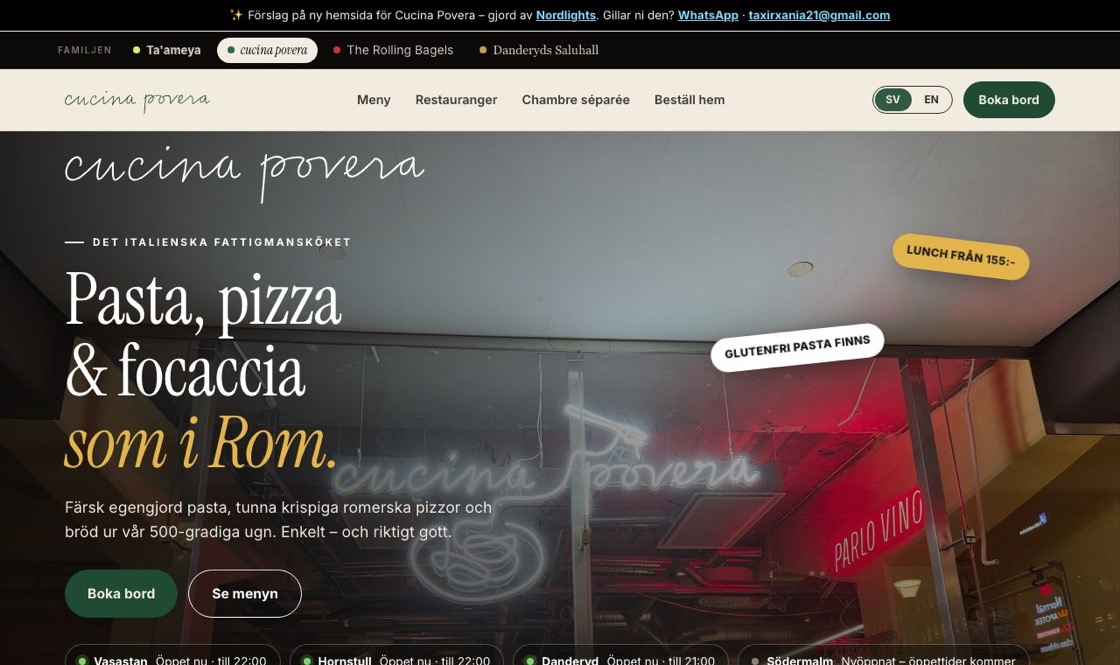
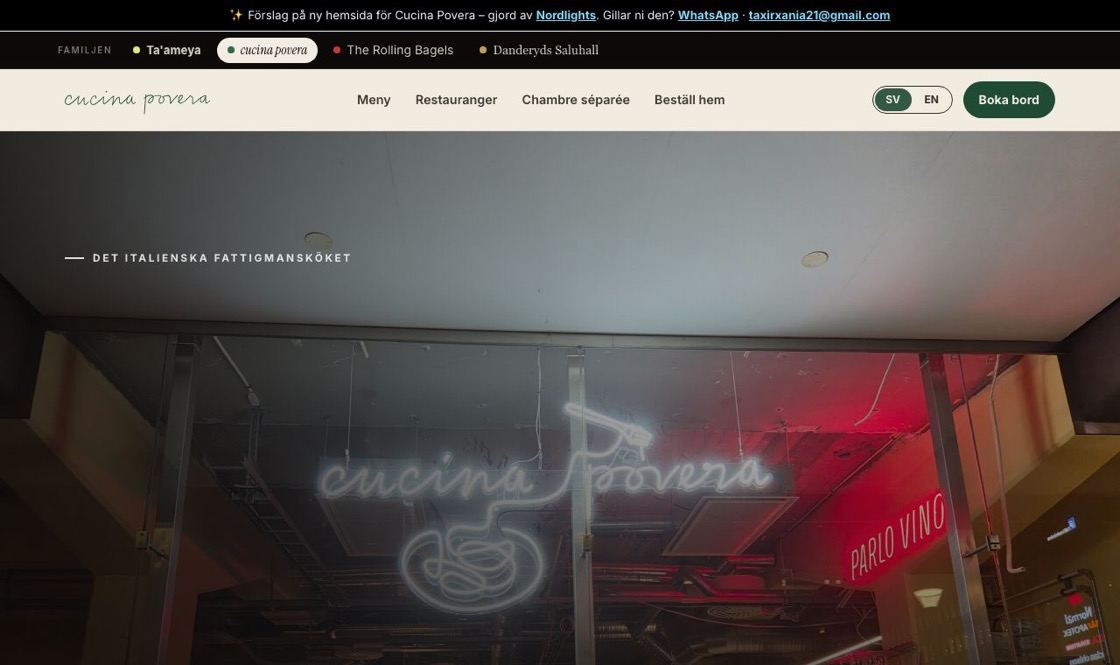
Replace watermarked, off-brand and look-alike photos (Danderyd, Cucina Povera)

diff --git a/danderyds-saluhall/index.html b/danderyds-saluhall/index.html
@@ -187,7 +187,7 @@ footer a{color:#f2ece2}
 
 <section class="intro" id="om">
   <div class="wrap grid">
-    <div class="ph reveal"><img src="img/bullar.jpg" alt="Nybakade bullar på plåt" loading="lazy"></div>
+    <div class="ph reveal"><img src="img/bak.jpg" alt="Nybakat bröd framför ugnarna i bageriet" loading="lazy"></div>
     <div class="reveal">
       <span class="kicker">Allt på ett ställe</span>
       <h2>Från morgonbullen <em>till middagen.</em></h2>
@@ -197,7 +197,7 @@ footer a{color:#f2ece2}
   </div>
 </section>
 
-<section style="padding-bottom:0"><div class="wrap"><div class="four"><div class="c reveal"><img src="img/bageri.jpg" alt="Nybakade surdegsbröd" loading="lazy"><div><h3>Bageri</h3><p>Bröd, surdeg, bullar och bakelser – bakas på plats hela dagen.</p><small>Från 08.00</small></div></div><div class="c reveal"><img src="img/saluhall2.jpg" alt="Hyllor med delikatesser" loading="lazy"><div><h3>Saluhall</h3><p>Delikatesser, ost, chark och italienska råvaror att ta med hem.</p><small>Från 08.00</small></div></div><div class="c reveal"><img src="img/meze.jpg" alt="Lunchtallrik med falafel och sallad" loading="lazy"><div><h3>Restaurang</h3><p>Cucina Povera – pasta, vedeldad pizza, viner och iskall öl.</p><small>Alla dagar från 11.00</small></div></div><div class="c reveal"><img src="img/bakelser.jpg" alt="Bakelser och munkar" loading="lazy"><div><h3>Catering</h3><p>Meze, italienskt och fika – lagat från grunden samma dag.</p><small>Förfrågan via SMS</small></div></div></div></div></section><section class="kit" id="matkasse"><div class="wrap kgrid">
+<section style="padding-bottom:0"><div class="wrap"><div class="four"><div class="c reveal"><img src="img/bageri.jpg" alt="Nybakade surdegsbröd" loading="lazy"><div><h3>Bageri</h3><p>Bröd, surdeg, bullar och bakelser – bakas på plats hela dagen.</p><small>Från 08.00</small></div></div><div class="c reveal"><img src="img/saluhall2.jpg" alt="Hyllor med delikatesser" loading="lazy"><div><h3>Saluhall</h3><p>Delikatesser, ost, chark och italienska råvaror att ta med hem.</p><small>Från 08.00</small></div></div><div class="c reveal"><img src="img/sal.jpg" alt="Restaurangens matsal med ljusslingor och en kanelbulle" loading="lazy"><div><h3>Restaurang</h3><p>Cucina Povera – pasta, vedeldad pizza, viner och iskall öl.</p><small>Alla dagar från 11.00</small></div></div><div class="c reveal"><img src="img/brod.jpg" alt="Nybakat bröd på skärbräda" loading="lazy"><div><h3>Catering</h3><p>Meze, italienskt och fika – lagat från grunden samma dag.</p><small>Förfrågan via SMS</small></div></div></div></div></section><section class="kit" id="matkasse"><div class="wrap kgrid">
   <div class="reveal"><span class="kicker">Matkasse för två</span><h2>Laga vår mat <em>hemma.</em></h2>
   <p class="big">Vi gör det jobbiga – du fixar bara det allra sista. Hemmagjord pasta och sås från grunden, klar på några minuter.</p>
   <div class="price disp">255 kr</div></div>
@@ -217,11 +217,11 @@ footer a{color:#f2ece2}
 <section class="gal">
   <div class="wrap">
     <div class="head reveal"><div><span class="kicker">I saluhallen</span><h2>Lagat från <em>grunden.</em></h2></div><p>Allt görs av oss på plats – samma dag som du äter det.</p></div>
-    <div class="ggrid"><figure class="b reveal"><img src="img/saluhall.jpg" alt="Italienska ostar i disken" loading="lazy"><figcaption>Ost &amp; chark</figcaption></figure><figure class="t reveal"><img src="img/semla.jpg" alt="Semla med grädde" loading="lazy"><figcaption>Semlor</figcaption></figure><figure class=" reveal"><img src="img/bak.jpg" alt="Bröd i bageriet" loading="lazy"></figure><figure class=" reveal"><img src="img/lunch.jpg" alt="Lunchtallrik med gult ris och kyckling" loading="lazy"></figure></div>
+    <div class="ggrid"><figure class="b reveal"><img src="img/saluhall.jpg" alt="Italienska ostar i disken" loading="lazy"><figcaption>Ost &amp; chark</figcaption></figure><figure class="b reveal"><img src="img/meny.jpg" alt="Caféets menytavlor med smörgåsar, kaffe och sötsaker" loading="lazy"><figcaption>Caféet</figcaption></figure></div>
   </div>
 </section>
 
-<section class="dark" style="padding-top:0;background:var(--bg)"><div class="wrap duo"><div class="panel reveal"><img src="img/fasad.jpg" alt="Saluhallens fasad på Sunnanängsvägen" loading="lazy"><div class="pin"><span class="kicker">Restaurang Cucina Povera</span><h3>Middag i saluhallen</h3><p>Ostar, chark och nybakat bröd, färsk egengjord pasta, vedeldad pizza och massor av goda viner.</p><div class="pchips"><span>Lunchmeny</span><span>Middagsmeny</span></div><a href="../cucina-povera/" class="btn btn-light">Till Cucina Povera</a></div></div><div class="panel reveal"><img src="img/brod.jpg" alt="Nybakat bröd" loading="lazy"><div class="pin"><span class="kicker">Fest &amp; tillställningar</span><h3>Fira hos oss</h3><p>Födelsedag, jubileum eller företagsfest – god mat, härliga viner och trevlig stämning. Eller catering hem till er.</p><div class="pchips"><span>Meze</span><span>Italienskt</span><span>Fika</span></div><a href="sms:+46704782474" class="btn btn-light">SMS:a oss</a></div></div></div></section>
+<section class="dark" style="padding-top:0;background:var(--bg)"><div class="wrap duo"><div class="panel reveal"><img src="img/fasad.jpg" alt="Saluhallens fasad på Sunnanängsvägen" loading="lazy"><div class="pin"><span class="kicker">Restaurang Cucina Povera</span><h3>Middag i saluhallen</h3><p>Ostar, chark och nybakat bröd, färsk egengjord pasta, vedeldad pizza och massor av goda viner.</p><div class="pchips"><span>Lunchmeny</span><span>Middagsmeny</span></div><a href="../cucina-povera/" class="btn btn-light">Till Cucina Povera</a></div></div><div class="panel reveal"><img src="img/semla.jpg" alt="Semla med grädde" loading="lazy"><div class="pin"><span class="kicker">Fest &amp; tillställningar</span><h3>Fira hos oss</h3><p>Födelsedag, jubileum eller företagsfest – god mat, härliga viner och trevlig stämning. Eller catering hem till er.</p><div class="pchips"><span>Meze</span><span>Italienskt</span><span>Fika</span></div><a href="sms:+46704782474" class="btn btn-light">SMS:a oss</a></div></div></div></section>
 
 <section style="padding:0"><div class="wrap" style="display:flex;gap:12px;flex-wrap:wrap;padding-top:72px"><a class="btn btn-ink" href="https://www.danderydssaluhall.se/documents/lunchmeny.pdf" target="_blank" rel="noopener">Lunchmeny (PDF)</a><a class="btn btn-line" href="https://www.danderydssaluhall.se/documents/middagsmeny.pdf" target="_blank" rel="noopener">Middagsmeny (PDF)</a></div></section>
 

diff --git a/cucina-povera/index.html b/cucina-povera/index.html
@@ -202,11 +202,11 @@ footer a{color:#f2ece2}
 <section class="gal">
   <div class="wrap">
     <div class="head reveal"><div><span class="kicker">Från köket</span><h2>Mat att <em>dela.</em></h2></div><p>Pasta, pizza och ett glas vin – vid Odenplan, i Hornstull eller i saluhallen i Danderyd.</p></div>
-    <div class="ggrid"><figure class="b reveal"><img src="img/hero.jpg" alt="Matsalen med gröna flaskor och stenbord" loading="lazy"><figcaption>Matsalen</figcaption></figure><figure class="t reveal"><img src="img/funghi.jpg" alt="Rigatoni funghi med parmesan" loading="lazy"><figcaption>Funghi</figcaption></figure><figure class=" reveal"><img src="img/pomodoro2.jpg" alt="Pomodoro med burrata och basilika" loading="lazy"></figure><figure class=" reveal"><img src="img/spaghetti.jpg" alt="Spaghetti med tomat och parmesan" loading="lazy"></figure></div>
+    <div class="ggrid"><figure class="b reveal"><img src="img/sal.jpg" alt="Matsalen på Odengatan med det höga välvda fönstret" loading="lazy"><figcaption>Odengatan</figcaption></figure><figure class="t reveal"><img src="img/pizza-burrata.jpg" alt="Pizza med burrata och basilika" loading="lazy"><figcaption>Pizza</figcaption></figure><figure class=" reveal"><img src="img/tiramisu.jpg" alt="Tiramisù med kakao" loading="lazy"></figure><figure class=" reveal"><img src="img/pesto.jpg" alt="Pasta med pesto och rostade nötter" loading="lazy"></figure></div>
   </div>
 </section>
 
-<section class="dark" style="padding-top:0;background:var(--bg)"><div class="wrap duo"><div class="panel reveal"><img src="img/bar.jpg" alt="Matsalen med baren" loading="lazy"><div class="pin"><span class="kicker">Upp till 50–60 personer</span><h3>Chambre séparée</h3><p>Vi har flera rum i olika storlekar – från intima middagar och möten till fester för 50–60 personer.</p><div class="pchips"><span>Middagar</span><span>Möten</span><span>Fest</span></div><a href="mailto:hello@cucinapovera.se?subject=Chambre%20s%C3%A9par%C3%A9e" class="btn btn-light">Fråga om chambre</a></div></div><div class="panel reveal"><img src="img/pomodoro.jpg" alt="Pomodoro med burrata" loading="lazy"><div class="pin"><span class="kicker">Hemma hos dig</span><h3>Beställ hem</h3><p>Beställ via Uber Eats, Foodora eller Wolt – eller hämta själv hos oss.</p><div class="pchips"><span>Uber Eats</span><span>Foodora</span><span>Wolt</span></div><a href="https://cucinapovera.qopla.com/" class="btn btn-light" target="_blank" rel="noopener">Beställ online</a></div></div></div></section>
+<section class="dark" style="padding-top:0;background:var(--bg)"><div class="wrap duo"><div class="panel reveal"><img src="img/hero.jpg" alt="Matsalen med gröna flaskor och stenbord" loading="lazy"><div class="pin"><span class="kicker">Upp till 50–60 personer</span><h3>Chambre séparée</h3><p>Vi har flera rum i olika storlekar – från intima middagar och möten till fester för 50–60 personer.</p><div class="pchips"><span>Middagar</span><span>Möten</span><span>Fest</span></div><a href="mailto:hello@cucinapovera.se?subject=Chambre%20s%C3%A9par%C3%A9e" class="btn btn-light">Fråga om chambre</a></div></div><div class="panel reveal"><img src="img/pizzor.jpg" alt="Två pizzor på stenbord" loading="lazy"><div class="pin"><span class="kicker">Hemma hos dig</span><h3>Beställ hem</h3><p>Beställ via Uber Eats, Foodora eller Wolt – eller hämta själv hos oss.</p><div class="pchips"><span>Uber Eats</span><span>Foodora</span><span>Wolt</span></div><a href="https://cucinapovera.qopla.com/" class="btn btn-light" target="_blank" rel="noopener">Beställ online</a></div></div></div></section>
 
 <span id="chambre"></span>
 

diff --git a/danderyds-saluhall/en.js b/danderyds-saluhall/en.js
@@ -10,11 +10,11 @@ window.EN={
 "Hyllor med delikatesser": "Shelves with delicacies",
 "Saluhall": "Food hall",
 "Delikatesser, ost, chark och italienska råvaror att ta med hem.": "Delicacies, cheese, cured meats and Italian produce to take home.",
-"Lunchtallrik med falafel och sallad": "Lunch plate with falafel and salad",
+"Restaurangens matsal med ljusslingor och en kanelbulle": "The restaurant dining room with string lights and a cinnamon bun",
 "Restaurang": "Restaurant",
 "Cucina Povera – pasta, vedeldad pizza, viner och iskall öl.": "Cucina Povera – pasta, wood-fired pizza, wine and ice-cold beer.",
 "Alla dagar från 11.00": "Every day from 11 am",
-"Bakelser och munkar": "Pastries and doughnuts",
+"Nybakat bröd på skärbräda": "Fresh bread on a board",
 "Catering": "Catering",
 "Meze, italienskt och fika – lagat från grunden samma dag.": "Meze, Italian and fika – made from scratch the same day.",
 "Förfrågan via SMS": "Enquire by text",
@@ -47,10 +47,8 @@ window.EN={
 "Fest & catering": "Parties & catering",
 "Fira hos oss – eller låt oss laga maten till er.": "Celebrate with us – or let us cook for you.",
 "Italienska ostar i disken": "Italian cheeses at the counter",
-"Semla med grädde": "Semla with cream",
-"Semlor": "Semlor",
-"Bröd i bageriet": "Bread in the bakery",
-"Lunchtallrik med gult ris och kyckling": "Lunch plate with yellow rice and chicken",
+"Caféets menytavlor med smörgåsar, kaffe och sötsaker": "The café menu boards with sandwiches, coffee and sweets",
+"Caféet": "The café",
 "Lunchmeny": "Lunch menu",
 "Middagsmeny": "Dinner menu",
 "Saluhallens fasad på Sunnanängsvägen": "The food hall building on Sunnanängsvägen",
@@ -61,7 +59,7 @@ window.EN={
 "Meze": "Meze",
 "Italienskt": "Italian",
 "Fika": "Fika",
-"Nybakat bröd": "Fresh bread",
+"Semla med grädde": "Semla with cream",
 "Fest & tillställningar": "Parties & events",
 "Fira hos oss": "Celebrate with us",
 "Födelsedag, jubileum eller företagsfest – god mat, härliga viner och trevlig stämning. Eller catering hem till er.": "Birthday, anniversary or company party – good food, lovely wines and a great atmosphere. Or catering to your place.",
@@ -78,7 +76,7 @@ window.EN={
 "Surdeg och bullar från 08.00, delikatesser att ta med hem och Cucina Povera i restaurangen – pasta, pizza och vin.": "Sourdough and buns from 8 am, delicacies to take home and Cucina Povera in the restaurant – pasta, pizza and wine.",
 "Matkasse 255 kr": "Meal kit 255 kr",
 "Öppettider": "Hours",
-"Nybakade bullar på plåt": "Freshly baked buns on a tray",
+"Nybakat bröd framför ugnarna i bageriet": "Fresh bread in front of the bakery ovens",
 "Allt på ett ställe": "All in one place",
 "Bageriet bakar löpande hela dagen, saluhallen fylls med italienska råvaror och på kvällen tänds ugnen i restaurangen.": "The bakery bakes all day, the food hall fills up with Italian produce and in the evening the restaurant oven fires up.",
 "Utbud": "What we offer",

diff --git a/cucina-povera/en.js b/cucina-povera/en.js
@@ -28,23 +28,23 @@ window.EN={
 "Tonda romana ”scrocchiarella” med fior di latte från Agerola.": "Tonda romana “scrocchiarella” with fior di latte from Agerola.",
 "Glutenfritt finns": "Gluten-free options",
 "Glutenfri pasta – och pizza för +25 kr.": "Gluten-free pasta – and pizza for +25 kr.",
-"Matsalen med gröna flaskor och stenbord": "The dining room with green bottles and stone tables",
-"Matsalen": "The dining room",
-"Rigatoni funghi med parmesan": "Rigatoni funghi with parmesan",
-"Funghi": "Funghi",
-"Pomodoro med burrata och basilika": "Pomodoro with burrata and basil",
-"Spaghetti med tomat och parmesan": "Spaghetti with tomato and parmesan",
+"Matsalen på Odengatan med det höga välvda fönstret": "The Odengatan dining room with its tall arched window",
+"Odengatan": "Odengatan",
+"Pizza med burrata och basilika": "Pizza with burrata and basil",
+"Pizza": "Pizza",
+"Tiramisù med kakao": "Tiramisù with cocoa",
+"Pasta med pesto och rostade nötter": "Pasta with pesto and toasted nuts",
 "Middagar": "Dinners",
 "Möten": "Meetings",
 "Fest": "Parties",
-"Matsalen med baren": "The dining room and bar",
+"Matsalen med gröna flaskor och stenbord": "The dining room with green bottles and stone tables",
 "Upp till 50–60 personer": "Up to 50–60 guests",
 "Vi har flera rum i olika storlekar – från intima middagar och möten till fester för 50–60 personer.": "We have several rooms in different sizes – from intimate dinners and meetings to parties for 50–60 guests.",
 "Fråga om chambre": "Ask about a room",
 "Uber Eats": "Uber Eats",
 "Foodora": "Foodora",
 "Wolt": "Wolt",
-"Pomodoro med burrata": "Pomodoro with burrata",
+"Två pizzor på stenbord": "Two pizzas on a stone table",
 "Hemma hos dig": "At your place",
 "Beställ via Uber Eats, Foodora eller Wolt – eller hämta själv hos oss.": "Order via Uber Eats, Foodora or Wolt – or pick up yourself.",
 "Beställ online": "Order online",
